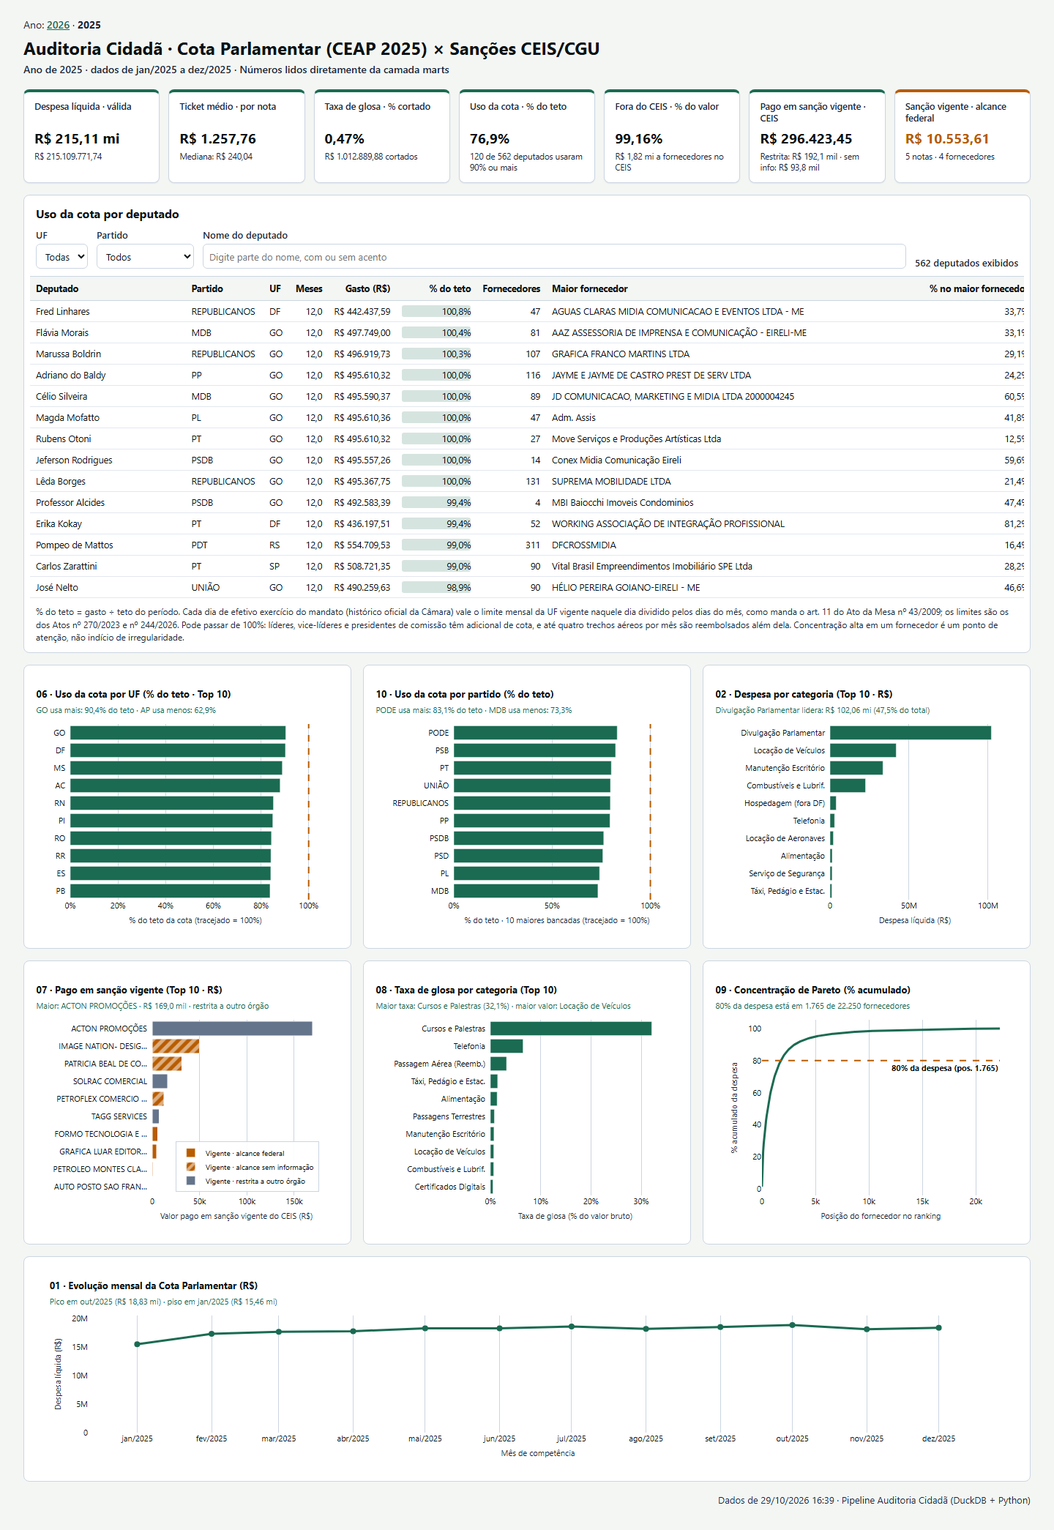
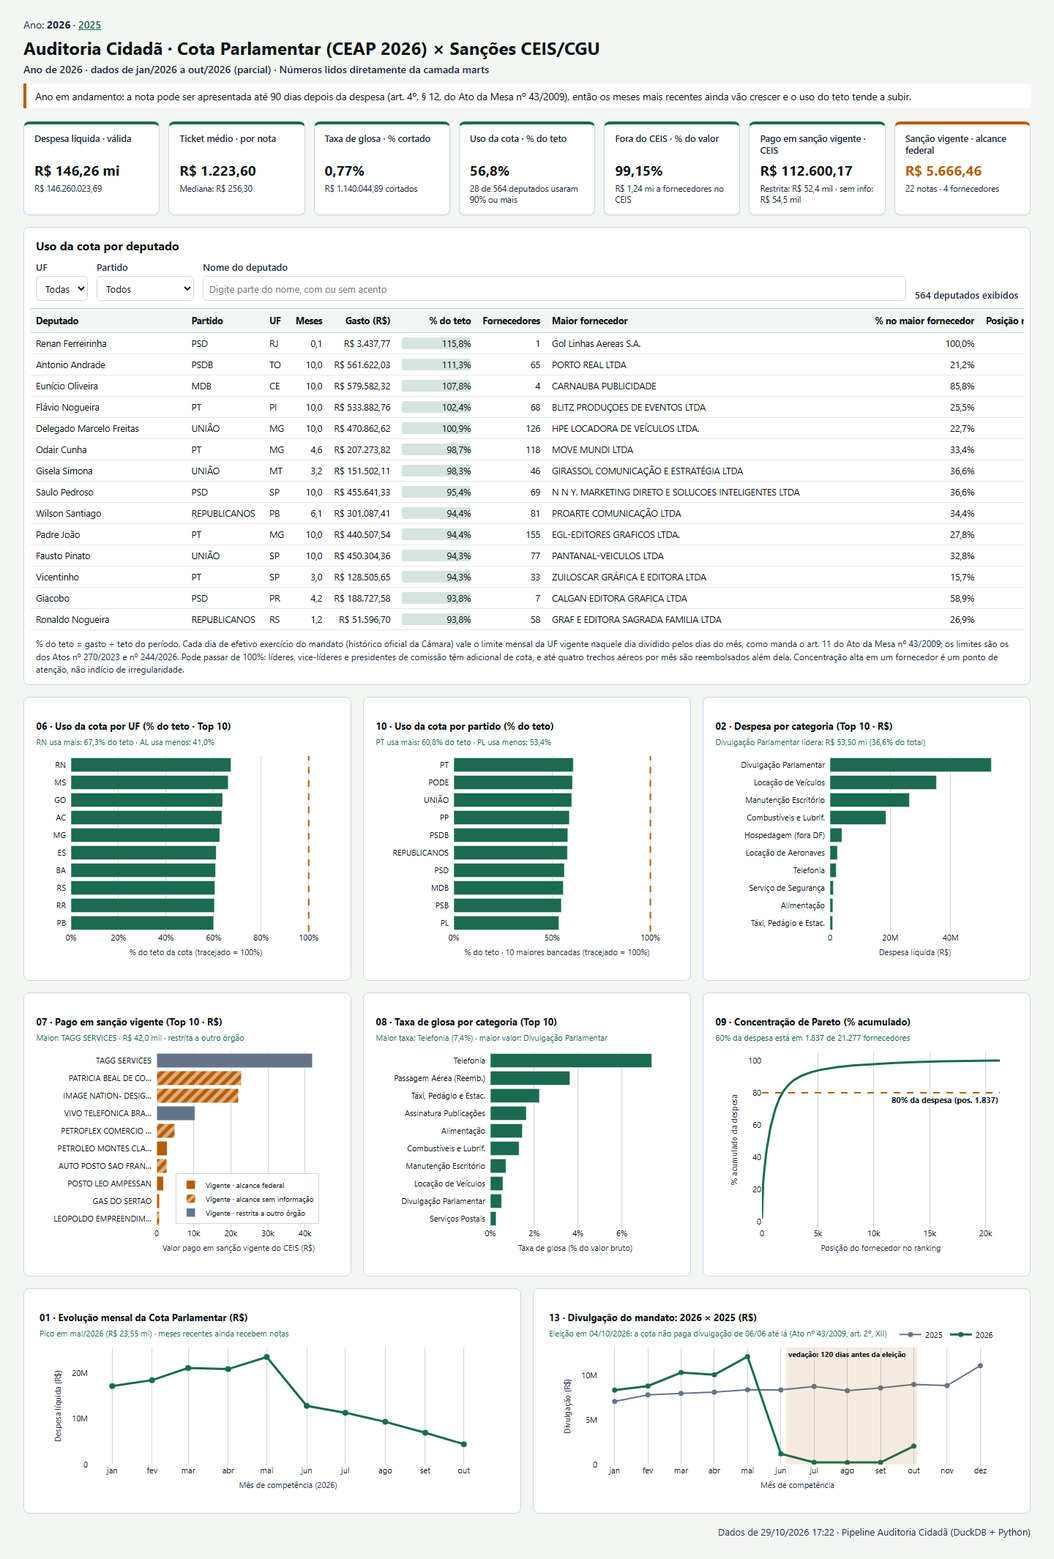
fix(painel): mostra 2026 no screenshot do README e ajusta títulos e eixo da faixa final

diff --git a/relatorio_2025.html b/relatorio_2025.html
@@ -765,11 +765,11 @@
   </section>
 
   <section class="row-2">
[4 lines of base64/hex data omitted]
   </section>
 
-  <footer>Dados de 29/10/2026 16:58 · Pipeline Auditoria Cidadã (DuckDB + Python)</footer>
+  <footer>Dados de 29/10/2026 17:22 · Pipeline Auditoria Cidadã (DuckDB + Python)</footer>
   <script>
 (function () {
   var uf = document.getElementById("f-uf");

diff --git a/relatorio.html b/relatorio.html
@@ -767,11 +767,11 @@
   </section>
 
   <section class="row-2">
-    <div class="chart-box"><div style="height:290px; width:100%;">                            <div id="g07" class="plotly-graph-div" style="height:100%; width:100%;"></div>            <script>                window.PLOTLYENV=window.PLOTLYENV || {};                                if (document.getElementById("g07")) {                    Plotly.newPlot(                        "g07",                        [{"line":{"color":"#1A6B52","width":3},"marker":{"color":"#1A6B52","size":8},"mode":"lines+markers","name":"Despesa l\u00edquida (R$)","x":["2026-01-01T00:00:00.000000","2026-02-01T00:00:00.000000","2026-03-01T00:00:00.000000","2026-04-01T00:00:00.000000","2026-05-01T00:00:00.000000","2026-06-01T00:00:00.000000","2026-07-01T00:00:00.000000","2026-08-01T00:00:00.000000","2026-09-01T00:00:00.000000","2026-10-01T00:00:00.000000"],"y":{"dtype":"f8","bdata":"H4XrvfllcEHXo3DZFqBxQQAAAOR9KnRBFK5HnYnsc0HD9SikF3Z2QY\u002fC9dgGhGhBCtejGLqlZUEUrkdhfddhQXE9CnejmlpBw\u002fUo3C4GUUE="},"type":"scatter"}],                        {"template":{"data":{"barpolar":[{"marker":{"line":{"color":"white","width":0.5},"pattern":{"fillmode":"overlay","size":10,"solidity":0.2}},"type":"barpolar"}],"bar":[{"error_x":{"color":"#2a3f5f"},"error_y":{"color":"#2a3f5f"},"marker":{"line":{"color":"white","width":0.5},"pattern":{"fillmode":"overlay","size":10,"solidity":0.2}},"type":"bar"}],"carpet":[{"aaxis":{"endlinecolor":"#2a3f5f","gridcolor":"#C8D4E3","linecolor":"#C8D4E3","minorgridcolor":"#C8D4E3","startlinecolor":"#2a3f5f"},"baxis":{"endlinecolor":"#2a3f5f","gridcolor":"#C8D4E3","linecolor":"#C8D4E3","minorgridcolor":"#C8D4E3","startlinecolor":"#2a3f5f"},"type":"carpet"}],"choropleth":[{"colorbar":{"outlinewidth":0,"ticks":""},"type":"choropleth"}],"contourcarpet":[{"colorbar":{"outlinewidth":0,"ticks":""},"type":"contourcarpet"}],"contour":[{"colorbar":{"outlinewidth":0,"ticks":""},"colorscale":[[0.0,"#0d0887"],[0.1111111111111111,"#46039f"],[0.2222222222222222,"#7201a8"],[0.3333333333333333,"#9c179e"],[0.4444444444444444,"#bd3786"],[0.5555555555555556,"#d8576b"],[0.6666666666666666,"#ed7953"],[0.7777777777777778,"#fb9f3a"],[0.8888888888888888,"#fdca26"],[1.0,"#f0f921"]],"type":"contour"}],"heatmap":[{"colorbar":{"outlinewidth":0,"ticks":""},"colorscale":[[0.0,"#0d0887"],[0.1111111111111111,"#46039f"],[0.2222222222222222,"#7201a8"],[0.3333333333333333,"#9c179e"],[0.4444444444444444,"#bd3786"],[0.5555555555555556,"#d8576b"],[0.6666666666666666,"#ed7953"],[0.7777777777777778,"#fb9f3a"],[0.8888888888888888,"#fdca26"],[1.0,"#f0f921"]],"type":"heatmap"}],"histogram2dcontour":[{"colorbar":{"outlinewidth":0,"ticks":""},"colorscale":[[0.0,"#0d0887"],[0.1111111111111111,"#46039f"],[0.2222222222222222,"#7201a8"],[0.3333333333333333,"#9c179e"],[0.4444444444444444,"#bd3786"],[0.5555555555555556,"#d8576b"],[0.6666666666666666,"#ed7953"],[0.7777777777777778,"#fb9f3a"],[0.8888888888888888,"#fdca26"],[1.0,"#f0f921"]],"type":"histogram2dcontour"}],"histogram2d":[{"colorbar":{"outlinewidth":0,"ticks":""},"colorscale":[[0.0,"#0d0887"],[0.1111111111111111,"#46039f"],[0.2222222222222222,"#7201a8"],[0.3333333333333333,"#9c179e"],[0.4444444444444444,"#bd3786"],[0.5555555555555556,"#d8576b"],[0.6666666666666666,"#ed7953"],[0.7777777777777778,"#fb9f3a"],[0.8888888888888888,"#fdca26"],[1.0,"#f0f921"]],"type":"histogram2d"}],"histogram":[{"marker":{"pattern":{"fillmode":"overlay","size":10,"solidity":0.2}},"type":"histogram"}],"mesh3d":[{"colorbar":{"outlinewidth":0,"ticks":""},"type":"mesh3d"}],"parcoords":[{"line":{"colorbar":{"outlinewidth":0,"ticks":""}},"type":"parcoords"}],"pie":[{"automargin":true,"type":"pie"}],"scatter3d":[{"line":{"colorbar":{"outlinewidth":0,"ticks":""}},"marker":{"colorbar":{"outlinewidth":0,"ticks":""}},"type":"scatter3d"}],"scattercarpet":[{"marker":{"colorbar":{"outlinewidth":0,"ticks":""}},"type":"scattercarpet"}],"scattergeo":[{"marker":{"colorbar":{"outlinewidth":0,"ticks":""}},"type":"scattergeo"}],"scattergl":[{"marker":{"colorbar":{"outlinewidth":0,"ticks":""}},"type":"scattergl"}],"scattermap":[{"marker":{"colorbar":{"outlinewidth":0,"ticks":""}},"type":"scattermap"}],"scatterpolargl":[{"marker":{"colorbar":{"outlinewidth":0,"ticks":""}},"type":"scatterpolargl"}],"scatterpolar":[{"marker":{"colorbar":{"outlinewidth":0,"ticks":""}},"type":"scatterpolar"}],"scatter":[{"fillpattern":{"fillmode":"overlay","size":10,"solidity":0.2},"type":"scatter"}],"scatterternary":[{"marker":{"colorbar":{"outlinewidth":0,"ticks":""}},"type":"scatterternary"}],"surface":[{"colorbar":{"outlinewidth":0,"ticks":""},"colorscale":[[0.0,"#0d0887"],[0.1111111111111111,"#46039f"],[0.2222222222222222,"#7201a8"],[0.3333333333333333,"#9c179e"],[0.4444444444444444,"#bd3786"],[0.5555555555555556,"#d8576b"],[0.6666666666666666,"#ed7953"],[0.7777777777777778,"#fb9f3a"],[0.8888888888888888,"#fdca26"],[1.0,"#f0f921"]],"type":"surface"}],"table":[{"cells":{"fill":{"color":"#EBF0F8"},"line":{"color":"white"}},"header":{"fill":{"color":"#C8D4E3"},"line":{"color":"white"}},"type":"table"}]},"layout":{"annotationdefaults":{"arrowcolor":"#2a3f5f","arrowhead":0,"arrowwidth":1},"autotypenumbers":"strict","coloraxis":{"colorbar":{"outlinewidth":0,"ticks":""}},"colorscale":{"diverging":[[0,"#8e0152"],[0.1,"#c51b7d"],[0.2,"#de77ae"],[0.3,"#f1b6da"],[0.4,"#fde0ef"],[0.5,"#f7f7f7"],[0.6,"#e6f5d0"],[0.7,"#b8e186"],[0.8,"#7fbc41"],[0.9,"#4d9221"],[1,"#276419"]],"sequential":[[0.0,"#0d0887"],[0.1111111111111111,"#46039f"],[0.2222222222222222,"#7201a8"],[0.3333333333333333,"#9c179e"],[0.4444444444444444,"#bd3786"],[0.5555555555555556,"#d8576b"],[0.6666666666666666,"#ed7953"],[0.7777777777777778,"#fb9f3a"],[0.8888888888888888,"#fdca26"],[1.0,"#f0f921"]],"sequentialminus":[[0.0,"#0d0887"],[0.1111111111111111,"#46039f"],[0.2222222222222222,"#7201a8"],[0.3333333333333333,"#9c179e"],[0.4444444444444444,"#bd3786"],[0.5555555555555556,"#d8576b"],[0.6666666666666666,"#ed7953"],[0.7777777777777778,"#fb9f3a"],[0.8888888888888888,"#fdca26"],[1.0,"#f0f921"]]},"colorway":["#636efa","#EF553B","#00cc96","#ab63fa","#FFA15A","#19d3f3","#FF6692","#B6E880","#FF97FF","#FECB52"],"font":{"color":"#2a3f5f"},"geo":{"bgcolor":"white","lakecolor":"white","landcolor":"white","showlakes":true,"showland":true,"subunitcolor":"#C8D4E3"},"hoverlabel":{"align":"left"},"hovermode":"closest","paper_bgcolor":"white","plot_bgcolor":"white","polar":{"angularaxis":{"gridcolor":"#EBF0F8","linecolor":"#EBF0F8","ticks":""},"bgcolor":"white","radialaxis":{"gridcolor":"#EBF0F8","linecolor":"#EBF0F8","ticks":""}},"scene":{"xaxis":{"backgroundcolor":"white","gridcolor":"#DFE8F3","gridwidth":2,"linecolor":"#EBF0F8","showbackground":true,"ticks":"","zerolinecolor":"#EBF0F8"},"yaxis":{"backgroundcolor":"white","gridcolor":"#DFE8F3","gridwidth":2,"linecolor":"#EBF0F8","showbackground":true,"ticks":"","zerolinecolor":"#EBF0F8"},"zaxis":{"backgroundcolor":"white","gridcolor":"#DFE8F3","gridwidth":2,"linecolor":"#EBF0F8","showbackground":true,"ticks":"","zerolinecolor":"#EBF0F8"}},"shapedefaults":{"line":{"color":"#2a3f5f"}},"ternary":{"aaxis":{"gridcolor":"#DFE8F3","linecolor":"#A2B1C6","ticks":""},"baxis":{"gridcolor":"#DFE8F3","linecolor":"#A2B1C6","ticks":""},"bgcolor":"white","caxis":{"gridcolor":"#DFE8F3","linecolor":"#A2B1C6","ticks":""}},"title":{"x":0.05},"xaxis":{"automargin":true,"gridcolor":"#EBF0F8","linecolor":"#EBF0F8","ticks":"","title":{"standoff":15},"zerolinecolor":"#EBF0F8","zerolinewidth":2},"yaxis":{"automargin":true,"gridcolor":"#EBF0F8","linecolor":"#EBF0F8","ticks":"","title":{"standoff":15},"zerolinecolor":"#EBF0F8","zerolinewidth":2}}},"title":{"font":{"family":"Segoe UI, Arial, sans-serif","size":13,"color":"#0B1315"},"subtitle":{"font":{"family":"Segoe UI, Arial, sans-serif","size":11,"color":"#1A6B52"},"text":"Pico em mai\u002f2026 (R$ 23,55 mi) \u00b7 meses recentes ainda recebem notas"},"text":"\u003cb\u003e01 \u00b7 Evolu\u00e7\u00e3o mensal da Cota Parlamentar (R$)\u003c\u002fb\u003e","x":0.02,"xanchor":"left"},"font":{"family":"Segoe UI, Arial, sans-serif","size":11,"color":"#0B1315"},"hoverlabel":{"font":{"size":12,"family":"Segoe UI, Arial, sans-serif","color":"#FFFFFF"},"bgcolor":"#0B1315"},"margin":{"l":80,"r":24,"t":72,"b":58},"separators":",.","plot_bgcolor":"#FFFFFF","paper_bgcolor":"#FFFFFF","height":290,"xaxis":{"title":{"font":{"family":"Segoe UI, Arial, sans-serif","size":11,"color":"#1E293B"},"text":"M\u00eas de compet\u00eancia","standoff":10},"tickfont":{"family":"Segoe UI, Arial, sans-serif","size":11,"color":"#0B1315"},"showgrid":true,"gridcolor":"#CBD5E1","zeroline":false,"automargin":true,"tickvals":["2026-01-01T00:00:00","2026-02-01T00:00:00","2026-03-01T00:00:00","2026-04-01T00:00:00","2026-05-01T00:00:00","2026-06-01T00:00:00","2026-07-01T00:00:00","2026-08-01T00:00:00","2026-09-01T00:00:00","2026-10-01T00:00:00"],"ticktext":["jan\u002f2026","fev\u002f2026","mar\u002f2026","abr\u002f2026","mai\u002f2026","jun\u002f2026","jul\u002f2026","ago\u002f2026","set\u002f2026","out\u002f2026"]},"yaxis":{"title":{"font":{"family":"Segoe UI, Arial, sans-serif","size":11,"color":"#1E293B"},"text":"Despesa l\u00edquida (R$)","standoff":12},"tickfont":{"family":"Segoe UI, Arial, sans-serif","size":11,"color":"#0B1315"},"showgrid":false,"zeroline":false,"ticksuffix":"","automargin":true,"rangemode":"tozero"}},                        {"responsive": true}                    )                };            </script>        </div></div>
+    <div class="chart-box"><div style="height:290px; width:100%;">                            <div id="g07" class="plotly-graph-div" style="height:100%; width:100%;"></div>            <script>                window.PLOTLYENV=window.PLOTLYENV || {};                                if (document.getElementById("g07")) {                    Plotly.newPlot(                        "g07",                        [{"line":{"color":"#1A6B52","width":3},"marker":{"color":"#1A6B52","size":8},"mode":"lines+markers","name":"Despesa l\u00edquida (R$)","x":["2026-01-01T00:00:00.000000","2026-02-01T00:00:00.000000","2026-03-01T00:00:00.000000","2026-04-01T00:00:00.000000","2026-05-01T00:00:00.000000","2026-06-01T00:00:00.000000","2026-07-01T00:00:00.000000","2026-08-01T00:00:00.000000","2026-09-01T00:00:00.000000","2026-10-01T00:00:00.000000"],"y":{"dtype":"f8","bdata":"H4XrvfllcEHXo3DZFqBxQQAAAOR9KnRBFK5HnYnsc0HD9SikF3Z2QY\u002fC9dgGhGhBCtejGLqlZUEUrkdhfddhQXE9CnejmlpBw\u002fUo3C4GUUE="},"type":"scatter"}],                        {"template":{"data":{"barpolar":[{"marker":{"line":{"color":"white","width":0.5},"pattern":{"fillmode":"overlay","size":10,"solidity":0.2}},"type":"barpolar"}],"bar":[{"error_x":{"color":"#2a3f5f"},"error_y":{"color":"#2a3f5f"},"marker":{"line":{"color":"white","width":0.5},"pattern":{"fillmode":"overlay","size":10,"solidity":0.2}},"type":"bar"}],"carpet":[{"aaxis":{"endlinecolor":"#2a3f5f","gridcolor":"#C8D4E3","linecolor":"#C8D4E3","minorgridcolor":"#C8D4E3","startlinecolor":"#2a3f5f"},"baxis":{"endlinecolor":"#2a3f5f","gridcolor":"#C8D4E3","linecolor":"#C8D4E3","minorgridcolor":"#C8D4E3","startlinecolor":"#2a3f5f"},"type":"carpet"}],"choropleth":[{"colorbar":{"outlinewidth":0,"ticks":""},"type":"choropleth"}],"contourcarpet":[{"colorbar":{"outlinewidth":0,"ticks":""},"type":"contourcarpet"}],"contour":[{"colorbar":{"outlinewidth":0,"ticks":""},"colorscale":[[0.0,"#0d0887"],[0.1111111111111111,"#46039f"],[0.2222222222222222,"#7201a8"],[0.3333333333333333,"#9c179e"],[0.4444444444444444,"#bd3786"],[0.5555555555555556,"#d8576b"],[0.6666666666666666,"#ed7953"],[0.7777777777777778,"#fb9f3a"],[0.8888888888888888,"#fdca26"],[1.0,"#f0f921"]],"type":"contour"}],"heatmap":[{"colorbar":{"outlinewidth":0,"ticks":""},"colorscale":[[0.0,"#0d0887"],[0.1111111111111111,"#46039f"],[0.2222222222222222,"#7201a8"],[0.3333333333333333,"#9c179e"],[0.4444444444444444,"#bd3786"],[0.5555555555555556,"#d8576b"],[0.6666666666666666,"#ed7953"],[0.7777777777777778,"#fb9f3a"],[0.8888888888888888,"#fdca26"],[1.0,"#f0f921"]],"type":"heatmap"}],"histogram2dcontour":[{"colorbar":{"outlinewidth":0,"ticks":""},"colorscale":[[0.0,"#0d0887"],[0.1111111111111111,"#46039f"],[0.2222222222222222,"#7201a8"],[0.3333333333333333,"#9c179e"],[0.4444444444444444,"#bd3786"],[0.5555555555555556,"#d8576b"],[0.6666666666666666,"#ed7953"],[0.7777777777777778,"#fb9f3a"],[0.8888888888888888,"#fdca26"],[1.0,"#f0f921"]],"type":"histogram2dcontour"}],"histogram2d":[{"colorbar":{"outlinewidth":0,"ticks":""},"colorscale":[[0.0,"#0d0887"],[0.1111111111111111,"#46039f"],[0.2222222222222222,"#7201a8"],[0.3333333333333333,"#9c179e"],[0.4444444444444444,"#bd3786"],[0.5555555555555556,"#d8576b"],[0.6666666666666666,"#ed7953"],[0.7777777777777778,"#fb9f3a"],[0.8888888888888888,"#fdca26"],[1.0,"#f0f921"]],"type":"histogram2d"}],"histogram":[{"marker":{"pattern":{"fillmode":"overlay","size":10,"solidity":0.2}},"type":"histogram"}],"mesh3d":[{"colorbar":{"outlinewidth":0,"ticks":""},"type":"mesh3d"}],"parcoords":[{"line":{"colorbar":{"outlinewidth":0,"ticks":""}},"type":"parcoords"}],"pie":[{"automargin":true,"type":"pie"}],"scatter3d":[{"line":{"colorbar":{"outlinewidth":0,"ticks":""}},"marker":{"colorbar":{"outlinewidth":0,"ticks":""}},"type":"scatter3d"}],"scattercarpet":[{"marker":{"colorbar":{"outlinewidth":0,"ticks":""}},"type":"scattercarpet"}],"scattergeo":[{"marker":{"colorbar":{"outlinewidth":0,"ticks":""}},"type":"scattergeo"}],"scattergl":[{"marker":{"colorbar":{"outlinewidth":0,"ticks":""}},"type":"scattergl"}],"scattermap":[{"marker":{"colorbar":{"outlinewidth":0,"ticks":""}},"type":"scattermap"}],"scatterpolargl":[{"marker":{"colorbar":{"outlinewidth":0,"ticks":""}},"type":"scatterpolargl"}],"scatterpolar":[{"marker":{"colorbar":{"outlinewidth":0,"ticks":""}},"type":"scatterpolar"}],"scatter":[{"fillpattern":{"fillmode":"overlay","size":10,"solidity":0.2},"type":"scatter"}],"scatterternary":[{"marker":{"colorbar":{"outlinewidth":0,"ticks":""}},"type":"scatterternary"}],"surface":[{"colorbar":{"outlinewidth":0,"ticks":""},"colorscale":[[0.0,"#0d0887"],[0.1111111111111111,"#46039f"],[0.2222222222222222,"#7201a8"],[0.3333333333333333,"#9c179e"],[0.4444444444444444,"#bd3786"],[0.5555555555555556,"#d8576b"],[0.6666666666666666,"#ed7953"],[0.7777777777777778,"#fb9f3a"],[0.8888888888888888,"#fdca26"],[1.0,"#f0f921"]],"type":"surface"}],"table":[{"cells":{"fill":{"color":"#EBF0F8"},"line":{"color":"white"}},"header":{"fill":{"color":"#C8D4E3"},"line":{"color":"white"}},"type":"table"}]},"layout":{"annotationdefaults":{"arrowcolor":"#2a3f5f","arrowhead":0,"arrowwidth":1},"autotypenumbers":"strict","coloraxis":{"colorbar":{"outlinewidth":0,"ticks":""}},"colorscale":{"diverging":[[0,"#8e0152"],[0.1,"#c51b7d"],[0.2,"#de77ae"],[0.3,"#f1b6da"],[0.4,"#fde0ef"],[0.5,"#f7f7f7"],[0.6,"#e6f5d0"],[0.7,"#b8e186"],[0.8,"#7fbc41"],[0.9,"#4d9221"],[1,"#276419"]],"sequential":[[0.0,"#0d0887"],[0.1111111111111111,"#46039f"],[0.2222222222222222,"#7201a8"],[0.3333333333333333,"#9c179e"],[0.4444444444444444,"#bd3786"],[0.5555555555555556,"#d8576b"],[0.6666666666666666,"#ed7953"],[0.7777777777777778,"#fb9f3a"],[0.8888888888888888,"#fdca26"],[1.0,"#f0f921"]],"sequentialminus":[[0.0,"#0d0887"],[0.1111111111111111,"#46039f"],[0.2222222222222222,"#7201a8"],[0.3333333333333333,"#9c179e"],[0.4444444444444444,"#bd3786"],[0.5555555555555556,"#d8576b"],[0.6666666666666666,"#ed7953"],[0.7777777777777778,"#fb9f3a"],[0.8888888888888888,"#fdca26"],[1.0,"#f0f921"]]},"colorway":["#636efa","#EF553B","#00cc96","#ab63fa","#FFA15A","#19d3f3","#FF6692","#B6E880","#FF97FF","#FECB52"],"font":{"color":"#2a3f5f"},"geo":{"bgcolor":"white","lakecolor":"white","landcolor":"white","showlakes":true,"showland":true,"subunitcolor":"#C8D4E3"},"hoverlabel":{"align":"left"},"hovermode":"closest","paper_bgcolor":"white","plot_bgcolor":"white","polar":{"angularaxis":{"gridcolor":"#EBF0F8","linecolor":"#EBF0F8","ticks":""},"bgcolor":"white","radialaxis":{"gridcolor":"#EBF0F8","linecolor":"#EBF0F8","ticks":""}},"scene":{"xaxis":{"backgroundcolor":"white","gridcolor":"#DFE8F3","gridwidth":2,"linecolor":"#EBF0F8","showbackground":true,"ticks":"","zerolinecolor":"#EBF0F8"},"yaxis":{"backgroundcolor":"white","gridcolor":"#DFE8F3","gridwidth":2,"linecolor":"#EBF0F8","showbackground":true,"ticks":"","zerolinecolor":"#EBF0F8"},"zaxis":{"backgroundcolor":"white","gridcolor":"#DFE8F3","gridwidth":2,"linecolor":"#EBF0F8","showbackground":true,"ticks":"","zerolinecolor":"#EBF0F8"}},"shapedefaults":{"line":{"color":"#2a3f5f"}},"ternary":{"aaxis":{"gridcolor":"#DFE8F3","linecolor":"#A2B1C6","ticks":""},"baxis":{"gridcolor":"#DFE8F3","linecolor":"#A2B1C6","ticks":""},"bgcolor":"white","caxis":{"gridcolor":"#DFE8F3","linecolor":"#A2B1C6","ticks":""}},"title":{"x":0.05},"xaxis":{"automargin":true,"gridcolor":"#EBF0F8","linecolor":"#EBF0F8","ticks":"","title":{"standoff":15},"zerolinecolor":"#EBF0F8","zerolinewidth":2},"yaxis":{"automargin":true,"gridcolor":"#EBF0F8","linecolor":"#EBF0F8","ticks":"","title":{"standoff":15},"zerolinecolor":"#EBF0F8","zerolinewidth":2}}},"title":{"font":{"family":"Segoe UI, Arial, sans-serif","size":13,"color":"#0B1315"},"subtitle":{"font":{"family":"Segoe UI, Arial, sans-serif","size":11,"color":"#1A6B52"},"text":"Pico em mai\u002f2026 (R$ 23,55 mi) \u00b7 meses recentes ainda recebem notas"},"text":"\u003cb\u003e01 \u00b7 Evolu\u00e7\u00e3o mensal da Cota Parlamentar (R$)\u003c\u002fb\u003e","x":0.02,"xanchor":"left"},"font":{"family":"Segoe UI, Arial, sans-serif","size":11,"color":"#0B1315"},"hoverlabel":{"font":{"size":12,"family":"Segoe UI, Arial, sans-serif","color":"#FFFFFF"},"bgcolor":"#0B1315"},"margin":{"l":80,"r":24,"t":72,"b":58},"separators":",.","plot_bgcolor":"#FFFFFF","paper_bgcolor":"#FFFFFF","height":290,"xaxis":{"title":{"font":{"family":"Segoe UI, Arial, sans-serif","size":11,"color":"#1E293B"},"text":"M\u00eas de compet\u00eancia (2026)","standoff":10},"tickfont":{"family":"Segoe UI, Arial, sans-serif","size":11,"color":"#0B1315"},"showgrid":true,"gridcolor":"#CBD5E1","zeroline":false,"automargin":true,"tickvals":["2026-01-01T00:00:00","2026-02-01T00:00:00","2026-03-01T00:00:00","2026-04-01T00:00:00","2026-05-01T00:00:00","2026-06-01T00:00:00","2026-07-01T00:00:00","2026-08-01T00:00:00","2026-09-01T00:00:00","2026-10-01T00:00:00"],"ticktext":["jan","fev","mar","abr","mai","jun","jul","ago","set","out"],"tickangle":0},"yaxis":{"title":{"font":{"family":"Segoe UI, Arial, sans-serif","size":11,"color":"#1E293B"},"text":"Despesa l\u00edquida (R$)","standoff":12},"tickfont":{"family":"Segoe UI, Arial, sans-serif","size":11,"color":"#0B1315"},"showgrid":false,"zeroline":false,"ticksuffix":"","automargin":true,"rangemode":"tozero"}},                        {"responsive": true}                    )                };            </script>        </div></div>
[1 lines of base64/hex data omitted]
   </section>
 
-  <footer>Dados de 29/10/2026 16:58 · Pipeline Auditoria Cidadã (DuckDB + Python)</footer>
+  <footer>Dados de 29/10/2026 17:22 · Pipeline Auditoria Cidadã (DuckDB + Python)</footer>
   <script>
 (function () {
   var uf = document.getElementById("f-uf");

diff --git a/painel.py b/painel.py
@@ -486,15 +486,21 @@ def grafico_gastos_mensais(df: pd.DataFrame, parcial: bool = False) -> go.Figure
             name="Despesa líquida (R$)",
         )
     )
+    anos_serie = sorted({pd.Timestamp(m).year for m in dados["mes"]})
     fig = _aplicar_layout_base(
         fig,
         "01 · Evolução mensal da Cota Parlamentar (R$)",
-        "Mês de competência",
+        f"Mês de competência ({', '.join(map(str, anos_serie))})" if anos_serie else "Mês de competência",
         "Despesa líquida (R$)",
         margem_esquerda=80,
         subtitulo=subtitulo,
     )
-    fig.update_xaxes(tickvals=list(dados["mes"]), ticktext=[_mes_abrev(m) for m in dados["mes"]])
+    # Só o mês no rótulo: em meia largura, "jan/2025 … dez/2025" ficava inclinado e apertado
+    fig.update_xaxes(
+        tickvals=list(dados["mes"]),
+        ticktext=[_MESES_ABREV[pd.Timestamp(m).month - 1] for m in dados["mes"]],
+        tickangle=0,
+    )
     fig.update_yaxes(rangemode="tozero")
     fig.update_layout(height=290)
     return fig
@@ -509,6 +515,7 @@ def _posicao_no_ano(data: object) -> float:
 def grafico_divulgacao_eleitoral(df: pd.DataFrame, ano: int) -> go.Figure:
     """13 · Divulgação do mandato no ano × ano anterior, com a vedação dos 120 dias antes da eleição."""
     fig = go.Figure()
+    titulo_anterior = f" × {ano - 1}" if (df["ano"] == ano - 1).any() else ""
     for ano_serie, cor, largura in ((ano - 1, COR_NEUTRA, 2), (ano, COR_PRINCIPAL, 3)):
         serie = df[df["ano"] == ano_serie].sort_values("mes")
         if serie.empty:
@@ -553,7 +560,7 @@ def grafico_divulgacao_eleitoral(df: pd.DataFrame, ano: int) -> go.Figure:
 
     fig = _aplicar_layout_base(
         fig,
-        f"13 · Divulgação do mandato: {ano} × {ano - 1} (R$)",
+        f"13 · Divulgação do mandato: {ano}{titulo_anterior} (R$)",
         "Mês de competência",
         "Divulgação (R$)",
         margem_esquerda=80,

diff --git a/test/test_painel.py b/test/test_painel.py
@@ -188,6 +188,9 @@ def test_painel_e_relatorio_sobre_banco_sintetico(
     assert [trace.name for trace in fig_2025.data] == ["2025"]
     assert len(fig_2025.layout.shapes) == 0
     assert fig_2025.layout.title.subtitle.text == "Sem eleição em 2025: nenhum período de vedação à divulgação"
+    # O título só promete comparação quando o ano anterior existe nos dados
+    assert "Divulgação do mandato: 2026 × 2025 (R$)" in fig_2026.layout.title.text
+    assert "Divulgação do mandato: 2025 (R$)" in fig_2025.layout.title.text
     dados = painel.do_ano(todos, 2025)
     assert all((df["ano"] == 2025).all() for df in dados.values())
     assert len(painel.grafico_gastos_mensais(dados["gastos_mensais"]).data[0].x) == len(dados["gastos_mensais"])

diff --git a/README.md b/README.md
@@ -6,9 +6,9 @@
 
 Pipeline completo de Engenharia de Dados construído do zero com **Spec-Driven Development**, **Python**, **DuckDB**, **SQL**, **Streamlit**, **Plotly** e **Pytest** para auditar os desembolsos da **Cota para Exercício da Atividade Parlamentar (CEAP, de 2025 até o ano corrente)** cruzados com o **Cadastro Nacional de Empresas Inidôneas e Suspensas (CEIS/CGU)**, o **Cadastro e o Histórico de Mandatos dos Deputados** e os **Limites Oficiais de Cota por UF (Atos da Mesa da Câmara)**.
 
-![Painel de 2025: cartões executivos, tabela de uso da cota por deputado e gráficos por UF, partido, categoria, sanções, glosas e concentração de fornecedores](design/painel.png)
+![Painel de 2026: cartões executivos, tabela de uso da cota por deputado, gráficos por UF, partido, categoria, sanções, glosas e concentração de fornecedores, e a divulgação do mandato caindo na vedação eleitoral](design/painel.png)
 
-<sub>Página de 2025 no GitHub Pages. O rascunho do layout (grade de 12 colunas, 5 faixas, com a pergunta e o número de conferência de cada bloco) está em [`design/rascunho.png`](design/rascunho.png).</sub>
+<sub>Página de 2026 (ano em andamento) no GitHub Pages, com a vedação eleitoral à divulgação no último gráfico; a de 2025 fica em `relatorio_2025.html`. O rascunho do layout (grade de 12 colunas, 5 faixas, com a pergunta e o número de conferência de cada bloco) está em [`design/rascunho.png`](design/rascunho.png).</sub>
 
 ---
 
